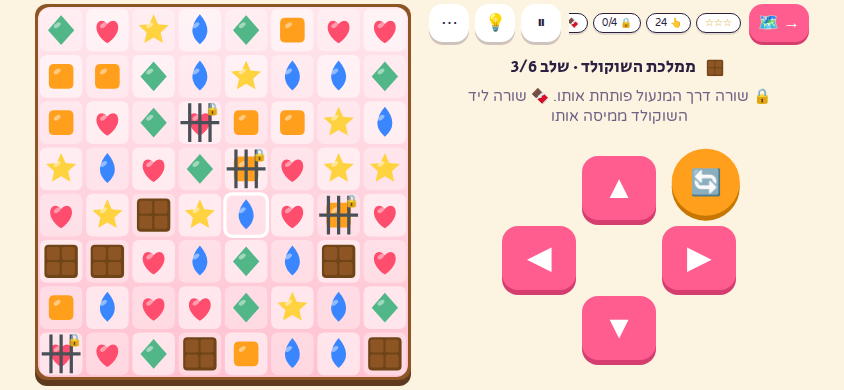
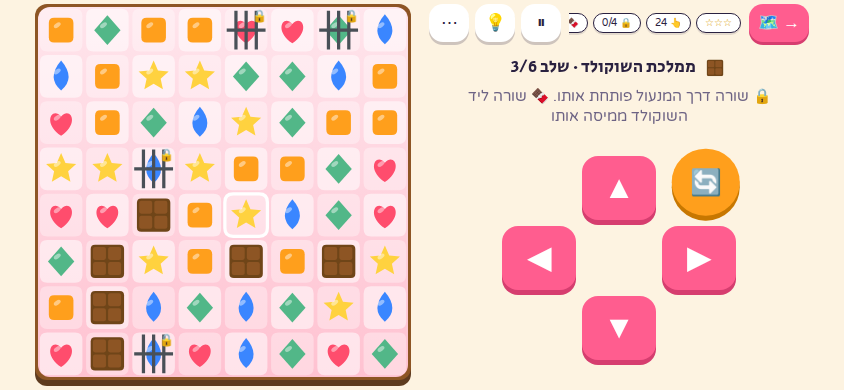
World kits: one registry replaces the nested arc→challenge→fairy-tale dispatch chains
Claude-Session: https://claude.ai/code/session_01H1TwZt265RguN1xJiWv6A7

diff --git a/src/game/24-fairytale.js b/src/game/24-fairytale.js
@@ -11,7 +11,7 @@ function ftFresh(lv){
     rlT0:performance.now(),...rhFresh(lv),...stFresh(lv),...pzFresh(lv),...wzFresh(lv),...vhFresh(lv)};
 }
 function ftAction(){
-  if(!G||G.done)return;if(PZ.has(G.W.id)){pzAction();return;}if(WZ.has(G.W.id)){wzAction();return;}if(VH.has(G.W.id)){vhAction();return;}
+  if(!G||G.done)return;
   if(G.W.id==='carpet'){if(G.wishLeft==null)G.wishLeft=G.cfg.wishes;
     if(G.wishArm){G.wishArm=false;toast('המשאלה מחכה 🪔');updateHud();return;}
     if(G.wishLeft<=0){toast('נגמרו המשאלות 🪔 אפשר להתחיל מחדש');return;}
@@ -21,11 +21,6 @@ function rlPhase(now){const c=G.cfg,T=c.green+800+c.red,ph=(now-G.rlT0)%T;return
 function herdAt(h,now){const P=G.cfg.period,n=G.lv.n,ph=(((now-G.stT0)/P+h.off)%1)*P,run=n*110;
   if(ph<1500)return {warn:true};if(ph<1500+run){const k=(ph-1500)/110;return {x:h.dir>0?k-.5:n-.5-k};}return {};}
 function ftMove(d){
-  if(G.W.id==='redhood'){rhMove(d);return;}
-  if(ST.has(G.W.id)){stMove(d);return;}
-  if(PZ.has(G.W.id)){pzMove(d);return;}
-  if(WZ.has(G.W.id)){wzMove(d);return;}
-  if(VH.has(G.W.id)){vhMove(d);return;}
   const id=G.W.id,lv=G.lv,n=lv.n,x=G.p.x,y=G.p.y,nx=x+DV[d][0],ny=y+DV[d][1];
   if(id==='snow'||id==='savanna'){
     if(lv.g[y][x][d]){bumpWall(d);return;}
@@ -92,12 +87,12 @@ function ftHint(){
   return false;
 }
 function ftTick(now){
-  const id=G.W.id;if(id==='redhood'){rhTick(now);return;}if(ST.has(id)){stTick(now);return;}if(isM3()){m3Tick(now);return;}if(WZ.has(id)){wzTick(now);return;}if(VH.has(id)){vhTick(now);return;}if(isBK()){if(!G.k.tray.length)bkDeal();return;}
+  const id=G.W.id;
   if(id==='savanna'&&now>G.hurtUntil){for(const h of G.lv.herds||[]){if(G.p.y!==h.y)continue;const a=herdAt(h,now);if(a.x!=null&&Math.abs(a.x-G.p.x)<.7){arcHurt('עדר! 🐃 העדר דחף אותך. מחכים בצד עד שהאבק עובר',G.safeP,true);break;}}}
   if(id==='toyroom'){const ph=rlPhase(now);if(ph!==G.rlLast){G.rlLast=ph;updateHud();if(ph===1)beep(300,.15,'triangle');if(ph===2)beep(200,.2,'triangle');if(ph===0)beep(600,.08,'sine');}}
 }
 function ftHud(add){
-  const id=G.W.id,lv=G.lv;if(id==='redhood'){rhHud(add);return;}if(ST.has(id)){stHud(add);return;}if(PZ.has(id)){if(isBK()&&!G.k.tray.length)bkDeal();pzHud(add);return;}if(WZ.has(id)){wzHud(add);return;}if(VH.has(id)){vhHud(add);return;}
+  const id=G.W.id,lv=G.lv;
   if(id==='snow')add('❄ '+G.inv[0]+' · 🔥 '+G.inv[1]);
   if(id==='savanna'){const have=G.inv.map((v,i)=>v?SAVF[i].repeat(v):'').join('');add(have?'🧺 '+have:'🧺 הסל ריק');}
   if(id==='lagoon')add(G.lv.t[G.p.y][G.p.x]===1?'🧜♀ זנב של בת ים':'🦶 רגליים');
@@ -189,7 +184,7 @@ function drawRockHorse(c,x,y,r){
 }
 /* drawing the boards */
 function ftDraw(s,n,W,now){
-  const id=G.W.id,lv=G.lv;ctx.textAlign='center';ctx.textBaseline='middle';if(id==='redhood'){rhDraw(s,n,W,now);return;}if(ST.has(id)){stDraw(s,n,W,now);return;}if(PZ.has(id)){pzDraw(s,n,W,now);return;}if(WZ.has(id)){wzDraw(s,n,W,now);return;}if(VH.has(id)){vhDraw(s,n,W,now);return;}
+  const id=G.W.id,lv=G.lv;ctx.textAlign='center';ctx.textBaseline='middle';
   if(id==='snow'){
     const gr=ctx.createLinearGradient(0,0,W,W);gr.addColorStop(0,'#f0f8ff');gr.addColorStop(1,'#dbeafe');ctx.fillStyle=gr;ctx.fillRect(0,0,W,W);
     ctx.strokeStyle='rgba(144,224,239,.35)';ctx.lineWidth=Math.max(1,s*.03);for(let y=0;y<n;y++)for(let x=0;x<n;x++)if((x*3+y*5)%7===0){const cx=(x+.5)*s,cy=(y+.5)*s;ctx.beginPath();for(let k=0;k<3;k++){const a=k*Math.PI/3;ctx.moveTo(cx-Math.cos(a)*s*.12,cy-Math.sin(a)*s*.12);ctx.lineTo(cx+Math.cos(a)*s*.12,cy+Math.sin(a)*s*.12);}ctx.stroke();}
@@ -235,7 +230,7 @@ function ftDraw(s,n,W,now){
   }
 }
 function ftDraw2(s,n,W,now){
-  const id=G.W.id,lv=G.lv;ctx.textAlign='center';ctx.textBaseline='middle';if(id==='redhood'){rhDraw2(s,n,W,now);return;}if(ST.has(id)){stDraw2(s,n,W,now);return;}if(WZ.has(id)){wzDraw2(s,n,W,now);return;}if(VH.has(id)){vhDraw2(s,n,W,now);return;}
+  const id=G.W.id,lv=G.lv;ctx.textAlign='center';ctx.textBaseline='middle';
   if(id==='savanna')(lv.herds||[]).forEach(h=>{const a=herdAt(h,now);if(a.x==null)return;const cx=(a.x+.5)*s,cy=(h.y+.5)*s;
     ctx.globalAlpha=.4;for(let i=1;i<4;i++)circle(ctx,cx-h.dir*i*s*.35,cy+s*.2,s*.18*(1-i*.2),'#c9a27e');ctx.globalAlpha=1;
     ctx.save();ctx.translate(cx,cy+Math.abs(Math.sin(now/80))*-s*.06);if(h.dir<0)ctx.scale(-1,1);ctx.font=Math.round(s*.65)+'px sans-serif';ctx.fillText('🐃',0,0);ctx.restore();});
@@ -248,6 +243,12 @@ function ftDraw2(s,n,W,now){
     if(G.wishArm){ctx.globalAlpha=.4+.3*Math.sin(now/120);circle(ctx,cx,cy-s*.3,s*.55,'#e0aaff');ctx.globalAlpha=1;ctx.font=Math.round(s*.35)+'px sans-serif';ctx.fillText('🪔',cx+s*.38,cy-s*.7);}}
   if(id==='toyroom'){const ph=rlPhase(now);ctx.font=Math.round(s*.9)+'px sans-serif';ctx.globalAlpha=ph===2?.95:ph===1?.7+.3*Math.sin(now/80):.45;ctx.fillText(ph===2?'👀':ph===1?'😮':'🙈',W-s*.6,s*.55);ctx.globalAlpha=1;}
 }
+kit(['snow','savanna','lagoon','carpet','ball','toyroom'],{move:ftMove,tick:ftTick,hud:ftHud,draw:ftDraw,draw2:ftDraw2,action:ftAction,hint:ftHint});
+// the story-book families (red hood, stories, puzzles, wizards, vehicles) share two habits: board text is centred, and buttons do nothing after the win
+function ftWrap(h){const o=Object.assign({},h);
+  for(const k of ['draw','draw2'])if(h[k])o[k]=(s,n,W,now)=>{ctx.textAlign='center';ctx.textBaseline='middle';h[k](s,n,W,now);};
+  if(h.action)o.action=()=>{if(!G||G.done)return;h.action();};
+  return o;}
 
 /* ---------- little red hood ---------- */
 function rhFresh(lv){return lv.dens?{flowersLeft:lv.flowers.map(f=>Object.assign({},f)),bouquet:[],wolves:lv.dens.map(d=>({x:d.x,y:d.y,hx:d.x,hy:d.y})),lastPath:{x:lv.start.x,y:lv.start.y}}:{};}
@@ -330,4 +331,4 @@ function rhDraw2(s,n,W,now){
     if(!awake){ctx.fillStyle='#2a2140';ctx.font='bold '+Math.round(s*.3)+'px sans-serif';ctx.textAlign='center';ctx.textBaseline='middle';ctx.fillText('z',cx+s*.3,cy-s*.35+Math.sin(now/300)*s*.04);}});
   if(G.flowersLeft.length)nwLock(s);
 }
-
+kit(['redhood'],ftWrap({move:rhMove,tick:rhTick,hud:rhHud,draw:rhDraw,draw2:rhDraw2}));

diff --git a/src/game/20-arcade.js b/src/game/20-arcade.js
@@ -27,8 +27,7 @@ function arcHurt(text,to,guard){
 function arcMove(d){
   const id=G.W.id,lv=G.lv,n=lv.n,x=G.p.x,y=G.p.y,nx=x+DV[d][0],ny=y+DV[d][1];
   const inside=nx>=0&&ny>=0&&nx<n&&ny<n,toGoal=nx===lv.goal.x&&ny===lv.goal.y;
-  if(SPORT.has(id)){spMove(d);return;}
-  if(CHAL.has(id)){chMove(d);return;}
+  const K=kitHook('move');if(K){K(d);return;}
   if(id==='deep'){deepMove(d);return;}
   if(id==='munch'){
     if(lv.g[y][x][d]){bumpWall(d);return;}
@@ -131,7 +130,7 @@ function ladLand(){
   if(cells.length){G.anim={cells,i:0,t:0,ms:70};return;}
   beep(300,.05,'square');barrelHit();if(atGoal())win();
 }
-function arcAction(){if(!G)return;if(NW.has(G.W.id)){nwAction();return;}if(FT.has(G.W.id)){ftAction();return;}if(G.W.id==='bomb')placeBomb();else if(G.W.id==='ladders')ladJump();else if(SPORT.has(G.W.id))spAction();}
+function arcAction(){if(!G)return;const K=kitHook('action');if(K){K();return;}if(G.W.id==='bomb')placeBomb();else if(G.W.id==='ladders')ladJump();}
 function placeBomb(){
   if(!G||G.done||G.W.id!=='bomb'||arcPaused())return;
   if(G.bombAt){arcSay('אפשר זיקוק אחד בכל פעם');return;}
@@ -175,8 +174,7 @@ window.addEventListener('pagehide',pauseGame);
 function arcTick(now){
   if(arcPaused()){G.arcAt=now;if(G.bombAt)G.bombAt.t=Math.max(G.bombAt.t,now+400);return;}
   const id=G.W.id,lv=G.lv;
-  if(SPORT.has(id)){spTick(now);return;}
-  if(CHAL.has(id)){chTick(now);return;}
+  const K=kitHook('tick');if(K){K(now);return;}
   if(id==='ladders'&&!G.anim&&G.p.y<G.bestRow&&GEN.ladStand(lv.t,lv.n,G.p.x,G.p.y)&&lv.t[G.p.y][G.p.x]!==2){G.bestRow=G.p.y;G.check={x:G.p.x,y:G.p.y};}
   if(id==='ladders'){const fl=lv.floors.filter(yb=>yb>G.p.y).length;if(fl!==G.floorShown){G.floorShown=fl;updateHud();}}
   if(G.jump){const j=G.jump,e=Math.min(1,(now-j.t0)/j.dur),fy=j.fy??j.y,ty=j.ty??j.y;G.vis={x:j.fx+(j.tx-j.fx)*e,y:fy+(ty-fy)*e-Math.sin(e*Math.PI)*1.15};if(e>=1){if(j.land)j.land();else ladLand();}}
@@ -198,8 +196,7 @@ function arcTick(now){
 }
 function arcHud(hud){
   const id=G.W.id,add=t=>{const s=document.createElement('span');s.className='chip';s.textContent=t;hud.appendChild(s);return s;};
-  if(SPORT.has(id)){spHud(add);return;}
-  if(CHAL.has(id)){chHud(add);return;}
+  const K=kitHook('hud');if(K){K(add);return;}
   if(id==='munch'){add('🟡 נקודות: '+G.dots.size);const s=add('ניקוד '+String(G.score).padStart(5,'0'));s.style.fontFamily='monospace';}
   if(id==='snake'){add('🍏 פירות: '+(G.lv.fruits.length-G.fruitsLeft.size)+' מתוך '+G.lv.fruits.length);add('🐍 אורך: '+G.body.length);}
   if(id==='road')add('🚗 מחכים לרווח');
@@ -356,8 +353,7 @@ function drawBalloon(c,x,y,r,now){
 function arcDraw(s,n,W,now){
   const id=G.W.id,lv=G.lv;
   if(id==='deep'){deepDraw(s,n,W,now);return;}
-  if(SPORT.has(id)){spDraw(s,n,W,now);return;}
-  if(CHAL.has(id)){chDraw(s,n,W,now);return;}
+  const K=kitHook('draw');if(K){K(s,n,W,now);return;}
   if(id==='munch'){
     ctx.fillStyle='#0b0b2a';ctx.fillRect(0,0,W,W);
     wallStroke(lv.g,n,s,'#3f5efb',Math.max(3,s*.22));wallStroke(lv.g,n,s,'#0b0b2a',Math.max(1,s*.08));
@@ -411,8 +407,7 @@ function arcDraw(s,n,W,now){
 function arcDraw2(s,n,W,now){
   const id=G.W.id,lv=G.lv;
   if(id==='deep'){deepDraw2(s,n,W,now);return;}
-  if(SPORT.has(id)){spDraw2(s,n,W,now);return;}
-  if(CHAL.has(id)){chDraw2(s,n,W,now);return;}
+  const K=kitHook('draw2');if(K){K(s,n,W,now);return;}
   const lock=left=>{if(!left)return;const X=lv.goal.x*s,Y=lv.goal.y*s;ctx.fillStyle='rgba(20,15,40,.45)';rrect(ctx,X+s*.08,Y+s*.08,s*.84,s*.84,s*.14);ctx.fill();
     ctx.font=Math.round(s*.42)+'px sans-serif';ctx.textAlign='center';ctx.textBaseline='middle';ctx.fillText('🔒',X+s/2,Y+s*.52);};
   if(id==='munch'){lock(G.dots.size);const sc=now<G.powerUntil,fl=sc&&G.powerUntil-now<1800&&Math.floor(now/160)%2;

diff --git a/src/game/22-challenge.js b/src/game/22-challenge.js
@@ -18,8 +18,6 @@ function chFresh(lv){
 }
 function chMove(d){
   const id=G.W.id,lv=G.lv,n=lv.n,x=G.p.x,y=G.p.y;
-  if(NW.has(id)){nwMove(d);return;}
-  if(FT.has(id)){ftMove(d);return;}
   if(id==='tilt'){
     if(G.anim||G.tiltA)return;
     const r=GEN.tiltSim(lv.t,n,G.p,G.bpos,d,lv.goal);
@@ -68,12 +66,12 @@ function shadowHit(){
     G.trailPath=[{x:G.p.x,y:G.p.y}];G.shIdx=-1;updateHud();}
 }
 function chTick(now){
-  const id=G.W.id;if(NW.has(id)){nwTick(now);return;}if(FT.has(id)){ftTick(now);return;}
+  const id=G.W.id;
   if(G.tiltA&&now-G.tiltA.t0>G.tiltA.dur)G.tiltA=null;
   if(id==='shadow'&&G.shIdx>=0&&now-G.shAt>G.cfg.speed){G.shAt=now;if(G.shIdx<G.trailPath.length-1)G.shIdx++;shadowHit();}
 }
 function chHud(add){
-  const id=G.W.id,lv=G.lv;if(NW.has(id)){nwHud(add);return;}if(FT.has(id)){ftHud(add);return;}
+  const id=G.W.id,lv=G.lv;
   if(id==='tilt')add('🔄 הטיות: '+G.tilts);
   if(id==='shadow'){add('🏮 פנסים: '+(lv.lights.length-G.lightsLeft.length)+' מתוך '+lv.lights.length);add(G.shIdx<0?'👣 הצל מחכה':'👣 הצל בדרך!');}
   if(id==='floors')add('🏢 קומה '+(floorOf(G.p.x,G.p.y)+1)+' מתוך '+lv.F+' · היציאה בקומה '+lv.F);
@@ -112,7 +110,7 @@ function drawRoof(c,x,y,r){c.fillStyle='#8d99ae';c.fillRect(x-r*.7,y-r*.1,r*1.4,
 function drawCodeDoor(c,x,y,r,open){c.fillStyle='#5d4037';rrect(c,x-r*.55,y-r*.8,r*1.1,r*1.6,r*.12);c.fill();c.fillStyle=open?'#2a9d5c':'#8d6e63';rrect(c,x-r*.42,y-r*.66,r*.84,r*1.32,r*.08);c.fill();
   c.fillStyle='#ffd23f';c.fillRect(x+r*.12,y-r*.1,r*.22,r*.3);c.strokeStyle='#ffd23f';c.lineWidth=Math.max(1,r*.07);c.beginPath();c.arc(x+r*.23,y-r*.12,r*.09,Math.PI,0);c.stroke();}
 function chDraw(s,n,W,now){
-  const id=G.W.id,lv=G.lv;if(NW.has(id)){nwDraw(s,n,W,now);return;}if(FT.has(id)){ftDraw(s,n,W,now);return;}
+  const id=G.W.id,lv=G.lv;
   if(id==='tilt'){
     const grd=ctx.createLinearGradient(0,0,W,W);grd.addColorStop(0,'#c9ada7');grd.addColorStop(1,'#9a8c98');ctx.fillStyle=grd;ctx.fillRect(0,0,W,W);
     for(let y=0;y<n;y++)for(let x=0;x<n;x++){const X=x*s,Y=y*s;if(lv.t[y][x]){ctx.fillStyle='#4a4e69';rrect(ctx,X+s*.04,Y+s*.04,s*.92,s*.92,s*.14);ctx.fill();ctx.fillStyle='#6c6f93';rrect(ctx,X+s*.04,Y+s*.04,s*.92,s*.3,s*.14);ctx.fill();}
@@ -148,7 +146,7 @@ function chDraw(s,n,W,now){
   }
 }
 function chDraw2(s,n,W,now){
-  const id=G.W.id,lv=G.lv;if(NW.has(id)){nwDraw2(s,n,W,now);return;}if(FT.has(id)){ftDraw2(s,n,W,now);return;}
+  const id=G.W.id,lv=G.lv;
   if(id==='tilt'){const a=G.tiltA,e=a?Math.min(1,(now-a.t0)/a.dur):1;
     G.bpos.forEach((b,i)=>{let x=b[0],y=b[1];if(a&&a.from[i]){const f=a.from.slice().sort((p,q)=>Math.hypot(p[0]-b[0],p[1]-b[1])-Math.hypot(q[0]-b[0],q[1]-b[1]))[0];x=f[0]+(b[0]-f[0])*e;y=f[1]+(b[1]-f[1])*e;}
       drawBoulder(ctx,(x+.5)*s,(y+.5)*s,s*.36);});}
@@ -156,4 +154,4 @@ function chDraw2(s,n,W,now){
   if(id==='shadow'&&G.lightsLeft.length){const X=lv.goal.x*s,Y=lv.goal.y*s;ctx.fillStyle='rgba(20,15,40,.45)';rrect(ctx,X+s*.08,Y+s*.08,s*.84,s*.84,s*.14);ctx.fill();ctx.font=Math.round(s*.42)+'px sans-serif';ctx.textAlign='center';ctx.textBaseline='middle';ctx.fillText('🔒',X+s/2,Y+s*.52);}
   if(id==='escape'&&G.doorOpen){ctx.font=Math.round(s*.4)+'px sans-serif';ctx.textAlign='center';ctx.fillText('🔓',(lv.goal.x+.8)*s,(lv.goal.y+.2)*s);}
 }
-
+kit(['tilt','shadow','floors','escape'],{move:chMove,tick:chTick,hud:chHud,draw:chDraw,draw2:chDraw2});

diff --git a/src/game/32-controls.js b/src/game/32-controls.js
@@ -35,17 +35,15 @@ function run(dir){
   };
   step();
 }
-cv.addEventListener('pointerdown',e=>{if(G&&G.W.id==='parking'&&!G.done){vhPointer('down',e);return;}if(G&&PZ.has(G.W.id)&&!G.done){pzPointer('down',e);return;}sx=e.clientX;sy=e.clientY;swiped=false;stopRun();if(G)G.flipHold=false;});
+cv.addEventListener('pointerdown',e=>{{const P=kitHook('pointer');if(P&&!G.done){P('down',e);return;}}sx=e.clientX;sy=e.clientY;swiped=false;stopRun();if(G)G.flipHold=false;});
 cv.addEventListener('pointermove',e=>{
-  if(G&&G.W.id==='parking'&&!G.done){vhPointer('move',e);return;}
-  if(G&&PZ.has(G.W.id)&&!G.done){pzPointer('move',e);return;}
+  {const P=kitHook('pointer');if(P&&!G.done){P('move',e);return;}}
   if(sx==null||!G)return;const dx=e.clientX-sx,dy=e.clientY-sy,th=Math.max(24,cv.getBoundingClientRect().width/(G.lv.view||G.lv.n)*.6);
   if(Math.abs(dx)>th||Math.abs(dy)>th){swiped=true;move(Math.abs(dx)>Math.abs(dy)?(dx>0?'right':'left'):(dy>0?'down':'up'));
     if(G.W.id==='ice'||(G&&G.wz&&G.wz.casting))sx=null;else{sx=e.clientX;sy=e.clientY;}}
 });
 cv.addEventListener('pointerup',e=>{
-  if(G&&G.W.id==='parking'&&!G.done){vhPointer('up',e);return;}
-  if(G&&PZ.has(G.W.id)&&!G.done){pzPointer('up',e);return;}
+  {const P=kitHook('pointer');if(P&&!G.done){P('up',e);return;}}
   if(sx!=null&&!swiped&&G&&!G.done){
     const cm=G.lv.view&&G.cam?G.cam:null,r=cv.getBoundingClientRect(),cs=r.width/(cm?G.lv.view:G.lv.n);
     const tx=(e.clientX-r.left)/cs-.5+(cm?cm.x:0),ty=(e.clientY-r.top)/cs-.5+(cm?cm.y:0),dx=tx-G.p.x,dy=ty-G.p.y;
@@ -90,7 +88,7 @@ document.getElementById('coinsBtn').onclick=()=>{
   G.coinsLeft=G.lv.coins.map(c=>Object.assign({},c));G.sum=0;beep(500,.08,'sine');toast('המטבעות חזרו למקום. אפשר לנסות שוב 🙂');showQuiz(false);updateHud();
 };
 document.getElementById('undoBtn').onclick=()=>{
-  if(vhUndo())return;if(nwUndo())return;
+  {const U=kitHook('undo');if(U&&U())return;}
   if(G&&G.W.id==='tilt'&&!G.done&&!G.anim){const u=G.tiltUndo.pop();if(!u)return;G.p=u.p;G.bpos=u.bs;G.tiltA=null;G.tilts=Math.max(0,G.tilts-1);beep(500,.08,'sine');updateHud();return;}
   if(G&&G.W.id==='soccer'&&!G.done&&!G.roll){const u=G.spUndo.pop();if(!u)return;G.p=u.p;G.ball=u.ball;G.kicks=Math.max(0,G.kicks-1);beep(500,.08,'sine');updateHud();return;}
   if(G&&G.W.id==='snake'&&!G.done){const u=G.snUndo.pop();if(!u)return;G.p=u.p;G.body=u.body;G.fruitsLeft=u.fruits;G.stars=u.stars;G.got=u.got;beep(500,.08,'sine');updateHud();return;}
@@ -98,7 +96,7 @@ document.getElementById('undoBtn').onclick=()=>{
   const u=G.undo.pop();G.p=u.p;G.boxes=u.boxes;beep(500,.08,'sine');updateHud();
 };
 document.getElementById('hintBtn').onclick=()=>{
-  if(vhHint()||nwHint()||ftHint()||pzHint())return;
+  {const H=kitHook('hint');if(H&&H())return;}
   if(G&&G.W.id==='tilt'&&!G.done&&!G.anim){const lv=G.lv,R=GEN.tiltSolve(lv.t,lv.n,G.p,G.bpos,lv.goal,60000);
     if(!R.won){toast('מכאן אי אפשר להגיע. לחצי ↩ צעד אחורה');return;}G.hint={d:R.sol[0],until:performance.now()+1800};return;}
   if(G&&(G.W.id==='golf'||G.W.id==='dojo')&&!G.done&&!G.roll){const lv=G.lv,n=lv.n,golfy=G.W.id==='golf';

diff --git a/src/game/26-puzzles.js b/src/game/26-puzzles.js
@@ -317,5 +317,6 @@ function pzDraw2(s,n,W,now){
     ctx.lineWidth=Math.max(4,s*.18);ctx.strokeStyle='#5a189a';ctx.strokeText(P.text,0,0);ctx.fillStyle='#ffd23f';ctx.fillText(P.text,0,0);ctx.restore();}
   if(isBK()){const k=G.k;if(k.lastPts&&now-k.lastPts.t0<900){const e=(now-k.lastPts.t0)/900;ctx.globalAlpha=1-e;ctx.font='bold '+Math.round(s*.6)+'px sans-serif';ctx.fillStyle='#ffffff';ctx.textAlign='center';ctx.fillText('+'+k.lastPts.v,W/2,W*.62-e*s);ctx.globalAlpha=1;}}
 }
-
-
+kit(PZ,ftWrap({move:pzMove,action:pzAction,hint:pzHint,pointer:pzPointer,draw:pzDraw,draw2:()=>{},
+  tick:now=>{if(isM3())m3Tick(now);else if(isBK()&&!G.k.tray.length)bkDeal();},
+  hud:add=>{if(isBK()&&!G.k.tray.length)bkDeal();pzHud(add);}}));

diff --git a/src/game/28-vehicles.js b/src/game/28-vehicles.js
@@ -259,4 +259,5 @@ function drawPug(c,x,y,r){circle(c,x,y,r*.55,'#e9c46a');c.fillStyle='#6f4518';c.
   c.fillStyle='#6f4518';c.beginPath();c.ellipse(x,y+r*.18,r*.28,r*.2,0,0,7);c.fill();circle(c,x,y+r*.1,r*.06,'#2a2140');
   c.fillStyle='rgba(76,201,240,.55)';c.strokeStyle='#2a2140';c.lineWidth=Math.max(1,r*.05);[-.22,.22].forEach(k=>{c.beginPath();c.arc(x+k*r,y-r*.1,r*.15,0,7);c.fill();c.stroke();});eyes(c,x,y-r*.1,r,.22,.06);
   c.fillStyle='#2a2140';c.fillRect(x-r*.07,y-r*.12,r*.14,r*.04);}
-
+kit(VH,ftWrap({move:vhMove,tick:vhTick,hud:vhHud,draw:vhDraw,draw2:vhDraw2,action:vhAction}));
+kit(['parking'],{hint:vhHint,undo:vhUndo,pointer:vhPointer});

diff --git a/src/game/09-kits.js b/src/game/09-kits.js
@@ -1,0 +1,7 @@
+/* ================= world kits: what each kind of world does ================= */
+// Each world family registers its handlers once, at the end of its own file:
+//   kit(ids, {move(d), tick(now), hud(add), draw(s,n,W,now), draw2(s,n,W,now), action(), hint(), undo(), pointer(type,e)})
+// The engine asks the kit of the world being played; a missing hook falls back to the shared code.
+const KITS={};
+function kit(ids,hooks){for(const id of ids)KITS[id]=Object.assign({},KITS[id],hooks);}
+function kitHook(name){const k=G&&G.W&&KITS[G.W.id];return k&&k[name]||null;}

diff --git a/src/game/23-newest.js b/src/game/23-newest.js
@@ -255,4 +255,4 @@ function nwDraw2(s,n,W,now){
     const yy=cy+(up?-s*.5:s*.5),dir=up?-1:1;ctx.moveTo(cx-s*.12,yy-dir*s*.06);ctx.lineTo(cx+s*.12,yy-dir*s*.06);ctx.lineTo(cx,yy+dir*s*.08);ctx.fill();ctx.globalAlpha=1;}
   if(id==='memory'&&!G.memHide){ctx.font='bold '+Math.round(s*.4)+'px sans-serif';ctx.textAlign='center';ctx.textBaseline='middle';ctx.globalAlpha=.6+.4*Math.sin(now/300);ctx.fillText('👀',(G.vis.x+.5)*s,(G.vis.y-.1)*s+s*.1);ctx.globalAlpha=1;}
 }
-
+kit(NW,{move:nwMove,tick:nwTick,hud:nwHud,draw:nwDraw,draw2:nwDraw2,action:nwAction,hint:nwHint,undo:nwUndo});

diff --git a/src/game/27-wizard.js b/src/game/27-wizard.js
@@ -248,3 +248,4 @@ function drawCubie(c,x,y,r){
   c.fillStyle='#ff924c';rrect(c,x-r*.55,y-r*.5,r*1.1,r*1.05,r*.18);c.fill();c.fillStyle='rgba(255,255,255,.35)';rrect(c,x-r*.42,y-r*.42,r*.6,r*.18,r*.08);c.fill();
   c.fillStyle='rgba(0,0,0,.15)';c.fillRect(x-r*.5,y+r*.38,r,r*.12);eyes(c,x,y-r*.02,r,.2,.09);circle(c,x-r*.32,y+r*.15,r*.06,'#ffafcc');circle(c,x+r*.32,y+r*.15,r*.06,'#ffafcc');
 }
+kit(WZ,ftWrap({move:wzMove,tick:wzTick,hud:wzHud,draw:wzDraw,draw2:wzDraw2,action:wzAction}));

diff --git a/src/game/21-sports.js b/src/game/21-sports.js
@@ -320,4 +320,4 @@ function spDraw2(s,n,W,now){
   if(id==='ski'&&performance.now()<G.stunUntil){ctx.font=Math.round(s*.4)+'px sans-serif';ctx.textAlign='center';ctx.fillText('💫',(G.vis.x+.5)*s,(G.vis.y)*s);}
   if(id==='hurdles'&&G.stuck){ctx.font=Math.round(s*.35)+'px sans-serif';ctx.textAlign='center';ctx.fillText('💦',(G.vis.x+.75)*s,(G.vis.y+.2)*s);}
 }
-
+kit(SPORT,{move:spMove,tick:spTick,hud:spHud,draw:spDraw,draw2:spDraw2,action:spAction});

diff --git a/src/game/25-story.js b/src/game/25-story.js
@@ -183,3 +183,4 @@ function drawJellyfish(c,x,y,r){
   c.fillStyle='#e0aaff';c.beginPath();c.arc(x,y+r*.15,r*.6,Math.PI,0);c.quadraticCurveTo(x,y+r*.35,x-r*.6,y+r*.15);c.fill();
   circle(c,x-r*.25,y-r*.25,r*.08,'#ffffff');eyes(c,x,y-r*.05,r,.2,.08);circle(c,x-r*.36,y+r*.06,r*.06,'#ff8fab');circle(c,x+r*.36,y+r*.06,r*.06,'#ff8fab');
 }
+kit(ST,ftWrap({move:stMove,tick:stTick,hud:stHud,draw:stDraw,draw2:stDraw2}));

diff --git a/src/index.html b/src/index.html
@@ -306,6 +306,7 @@
 @include game/06-q-numbers.js
 @include game/07-q-words.js
 @include game/08-q-geometry.js
+@include game/09-kits.js
 @include game/10-engine.js
 @include game/20-arcade.js
 @include game/21-sports.js
